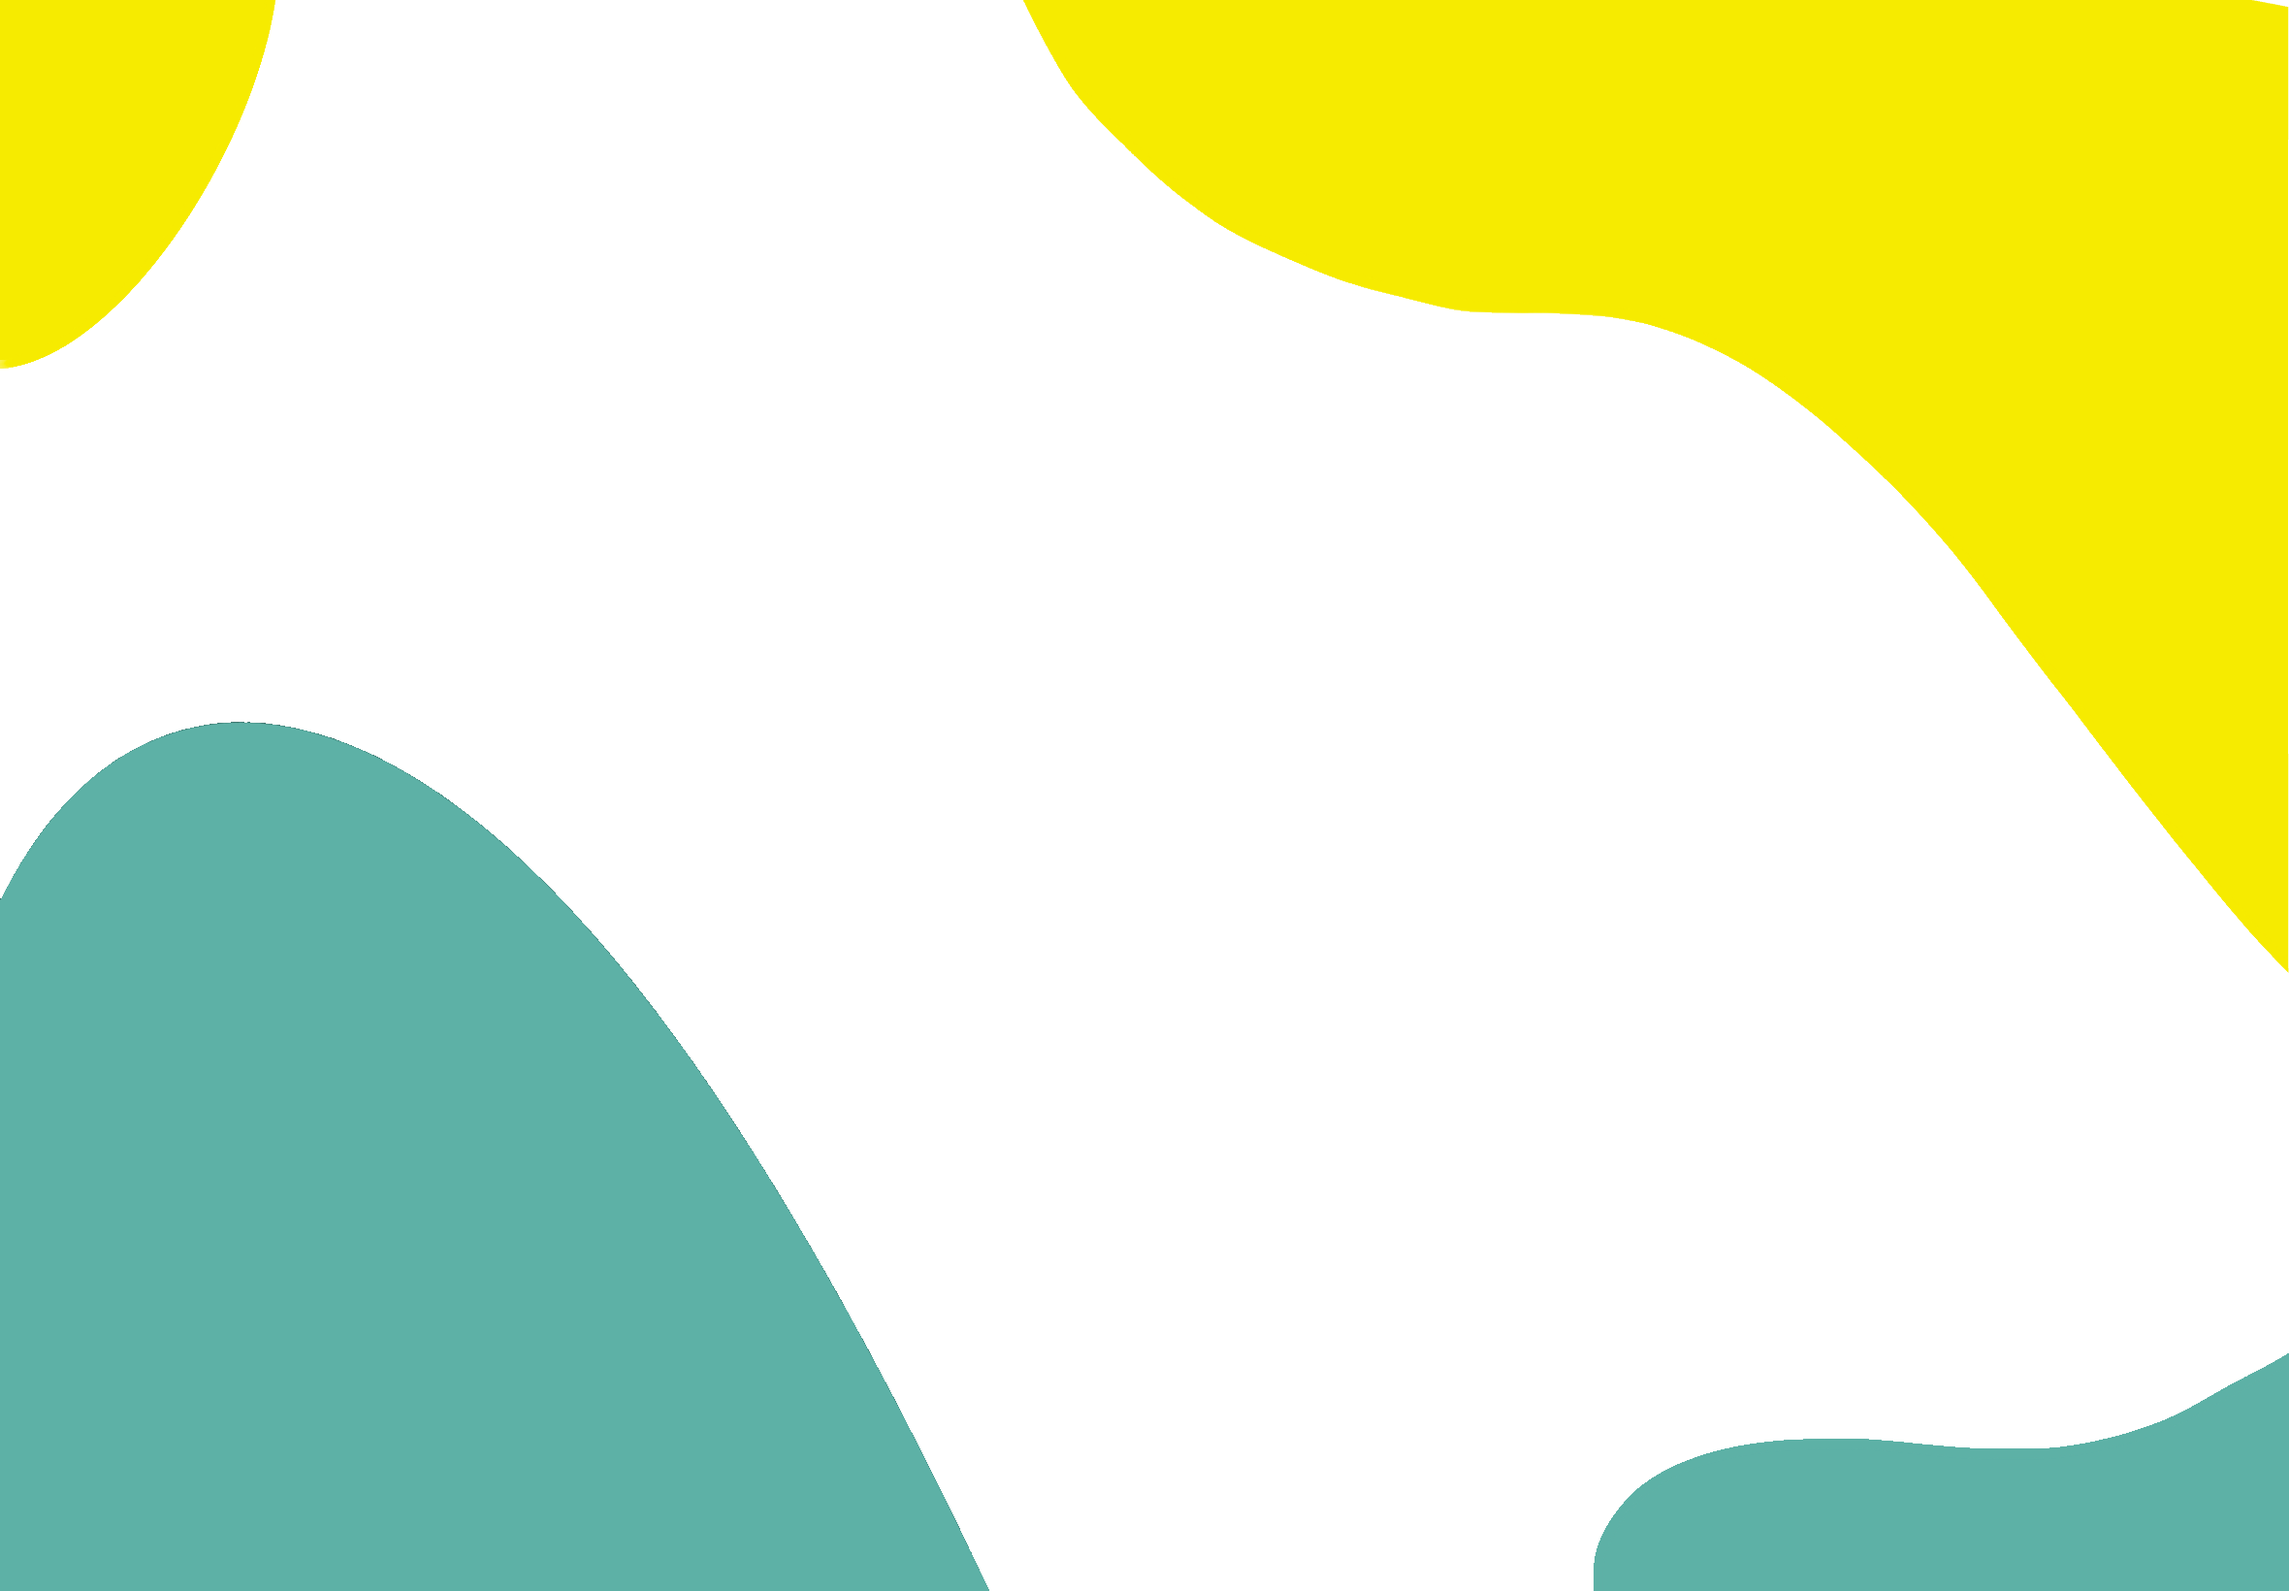
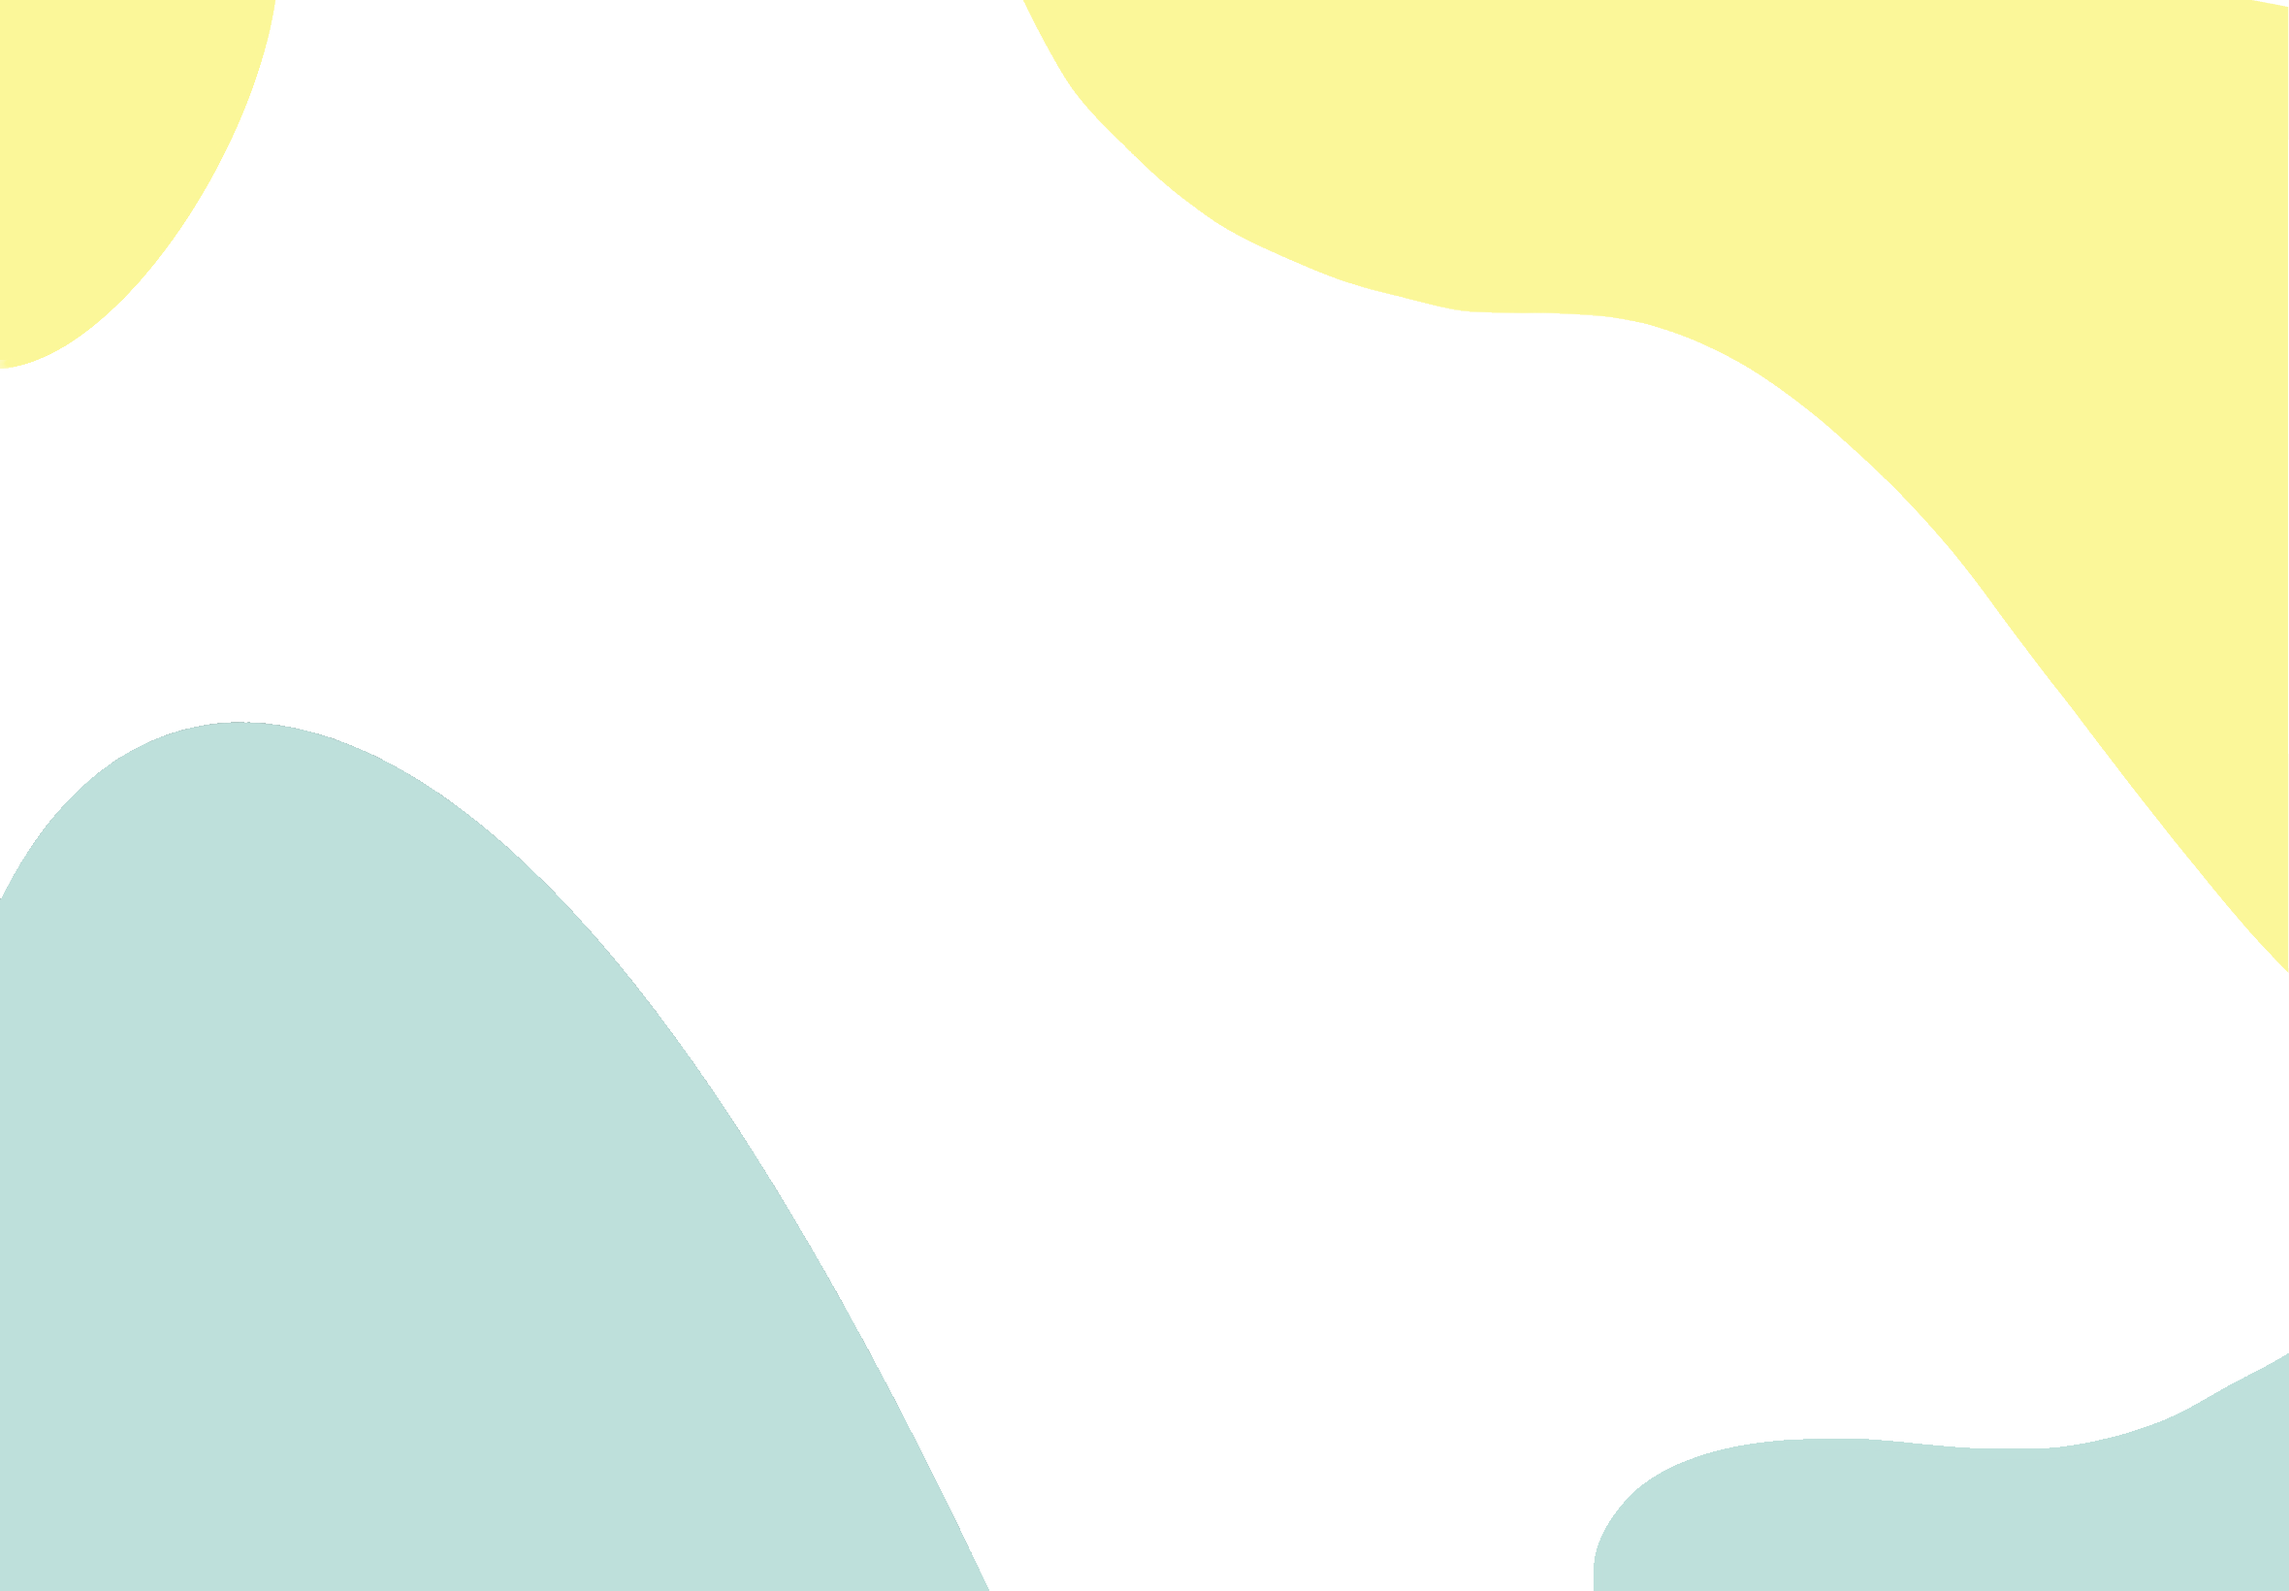
bg opacity aangepast

diff --git a/styles/styles.css b/styles/styles.css
@@ -17,29 +17,20 @@ body {
     font-family: var(--txt-font);
     font-weight: normal;
     height: 100vh;
+    max-height: 100vh;
     overflow-x: hidden;   
     position: relative;
+    left: 0;
+    width: 100%;
+    top: 0;
+    background: url('../assets/bg.png');
+    background-position: top left;
+    background-size: cover;
+    background-repeat: repeat;
 }
 
 
 /* Website achtergrond */
-body::after {
-    content: "";
-    opacity: .4;
-    min-height: 100%;
-    background: url('../assets/bg.svg');
-    background-position: top left;
-    background-size: 120%;
-    background-repeat: repeat;
-    top: 0;
-    left: 0;
-    width: 100%;
-    overflow: hidden;
-    bottom: 0;
-    right: 0;
-    position: absolute;
-    z-index: -1;
-}
 
 .navigation-bar {
     width: 100%;

diff --git a/styles/formstyle.css b/styles/formstyle.css
@@ -17,27 +17,14 @@ body {
     left: 0;
     width: 100%;
     top: 0;
+    background: url('../assets/bg.svg');
+    background-position: top left;
+    background-size: cover;
+    background-repeat: repeat;
 }
 
 
 /* Website achtergrond */
-body::after {
-    content: "";
-    opacity: .4;
-    min-height: 100%;
-    background: url('../assets/bg.svg');
-    background-position: top left;
-    background-size: 120%;
-    background-repeat: repeat;
-    top: 0;
-    left: 0;
-    width: 100%;
-    overflow: hidden;
-    bottom: 0;
-    right: 0;
-    position: absolute;
-    z-index: -1;
-}
 
 .maincon{
     height: calc(100vh - 16.5vh);
